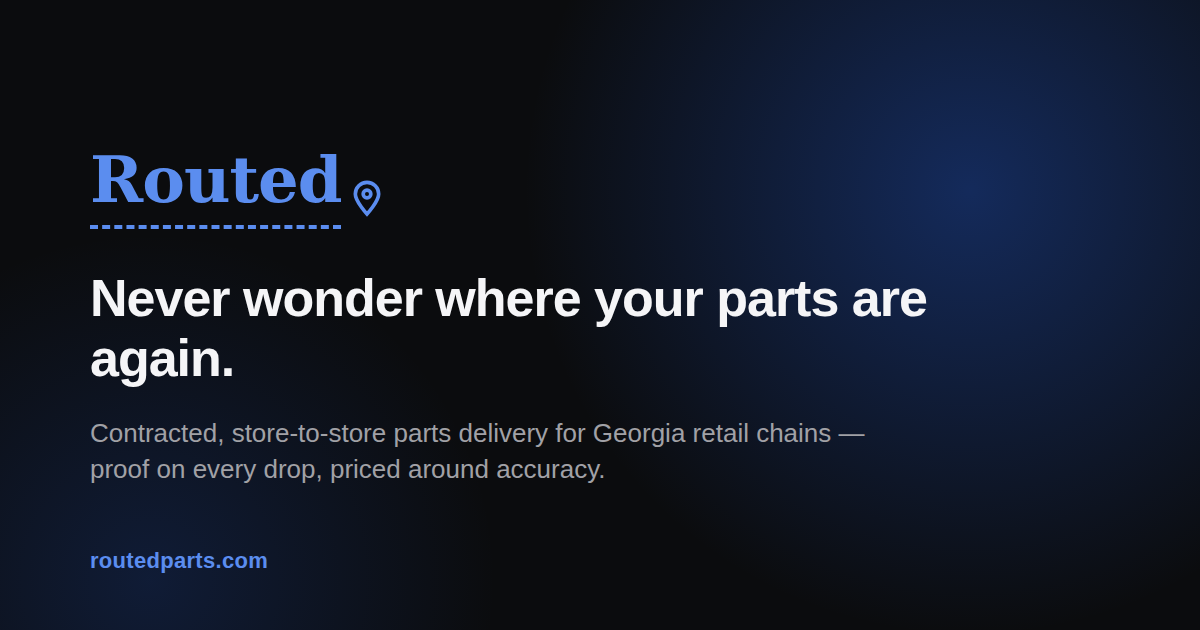
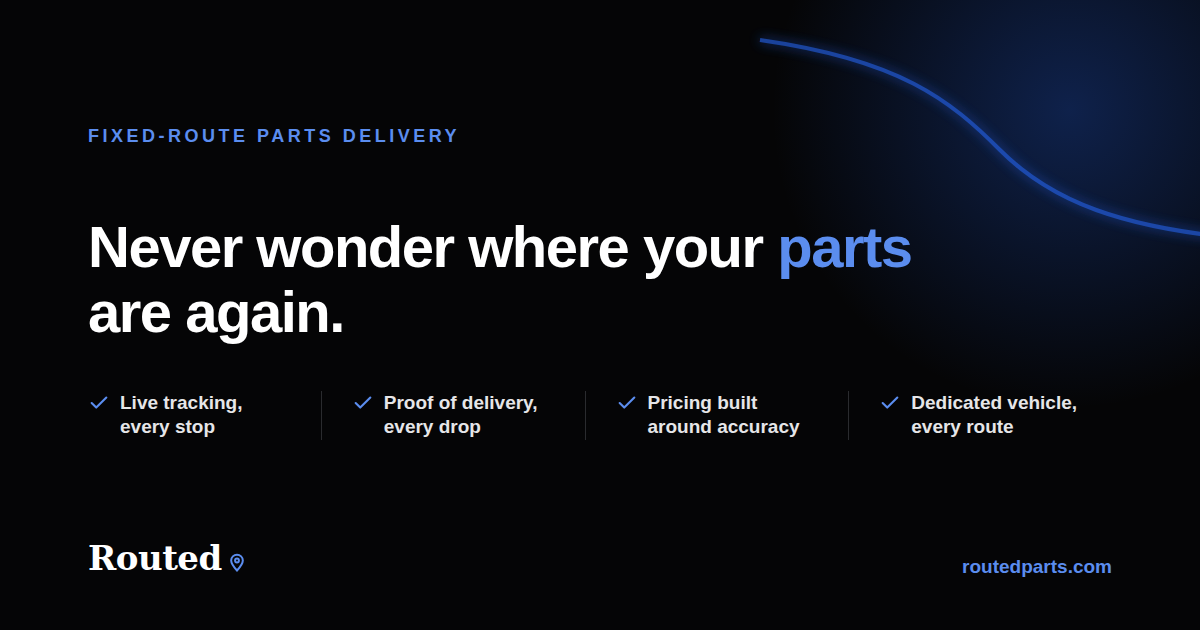
Updated the iMessage preview image (V2)

diff --git a/README.md b/README.md
@@ -1,6 +1,12 @@
 # Routed — Website
 
-Plain HTML/CSS/JS, single file (`index.html`), no build step, no dependencies (one Google Fonts link for the display typeface). One extra image file (`og-image.png`) supports link previews — see v10 below.
+Plain HTML/CSS/JS, single file (`index.html`), no build step, no dependencies (one Google Fonts link for the display typeface). One extra image file (`og-image.png`) supports link previews — see v12 below.
+
+## v12 tweak (2026-08-23, same day) — link-preview image now highlights the value props
+User asked for the preview image to show more of what makes Routed different, not just the headline. Added a 4-item row beneath the headline — Live tracking, every stop / Proof of delivery, every drop / Pricing built around accuracy / Dedicated vehicle, every route — using the exact same checkmark + hairline-divider pattern as the hero's value strip on the actual site, so the image reads as a direct extension of the real page rather than a separate marketing graphic. Kept the bold headline and the glowing route-line accent from v11, just repositioned the line into the top-right corner so it doesn't collide with the new row. Same 1200×630 size, same font caveat as before. Only `og-image.png` changed.
+
+## v11 tweak (2026-08-23, same day) — bolder link-preview image
+User confirmed the link-preview fix worked, but said the preview image itself ("og-image.png") was boring for a company positioned as disruptive. Replaced it with a punchier design: a much larger, bolder headline ("Never wonder where your parts are again.", with "parts" highlighted in brand blue) dominating the frame, plus a glowing animated-looking route line sweeping across the card with stop markers and a pulsing "live" endpoint dot — a static echo of the site's actual live-tracking visual, so it still reads as "delivery tech," not generic stock-photo energy. Same dark background and brand blue, same 1200×630 size, same font-rendering caveat as before (system serif approximation of Fraunces, not the exact face, since the generating environment has no live internet access to Google Fonts). No other files changed.
 
 ## v10 tweak (2026-08-23, same day) — link-preview (Open Graph) tags + preview image
 User noticed that texting routedparts.com showed a rough-looking preview title ("Routed --- Route-Based Parts & Freight Delivery"). The site previously had no Open Graph/Twitter Card tags at all, so link-preview generators (iMessage, WhatsApp, Slack, Facebook, LinkedIn, etc.) were falling back to guessing from the raw `<title>`/`<meta name="description">` tags — and some of those apps don't render the em dash (`—`) character cleanly, which is likely what turned into stray dashes.
